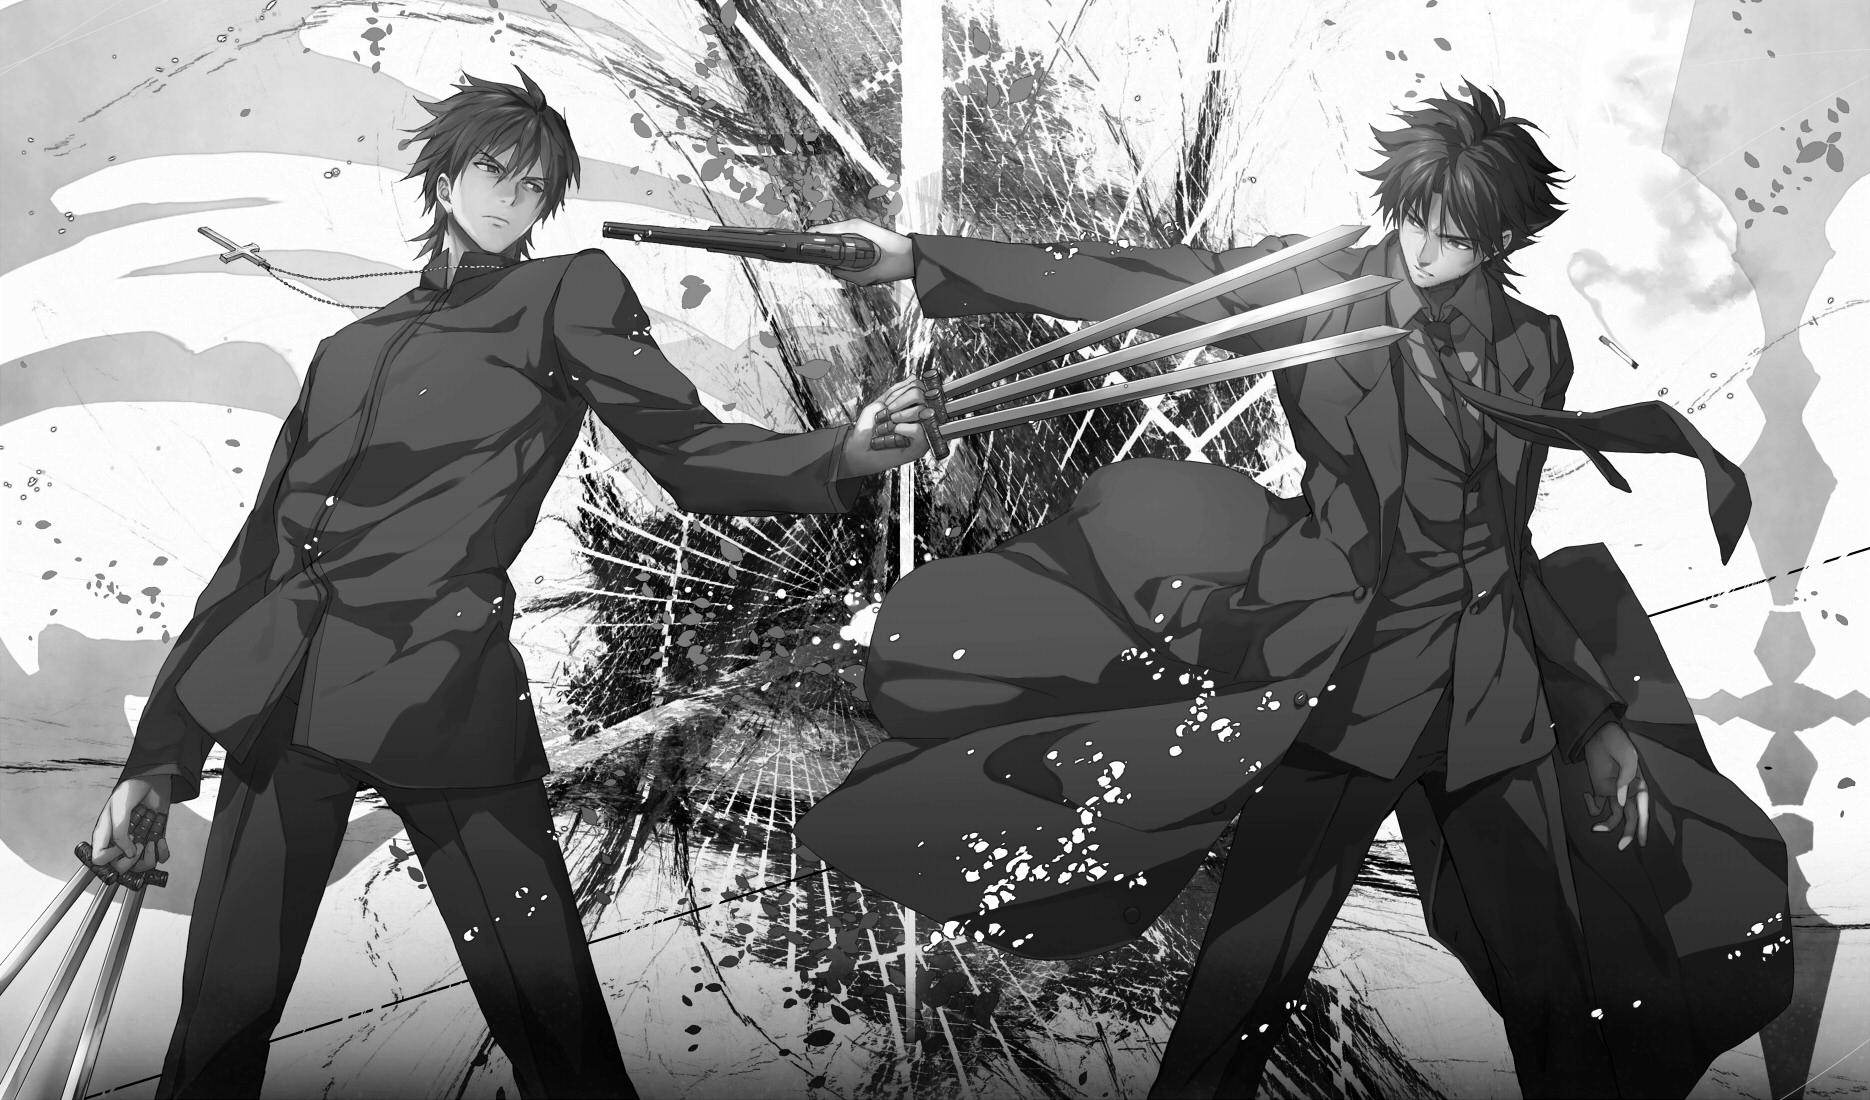
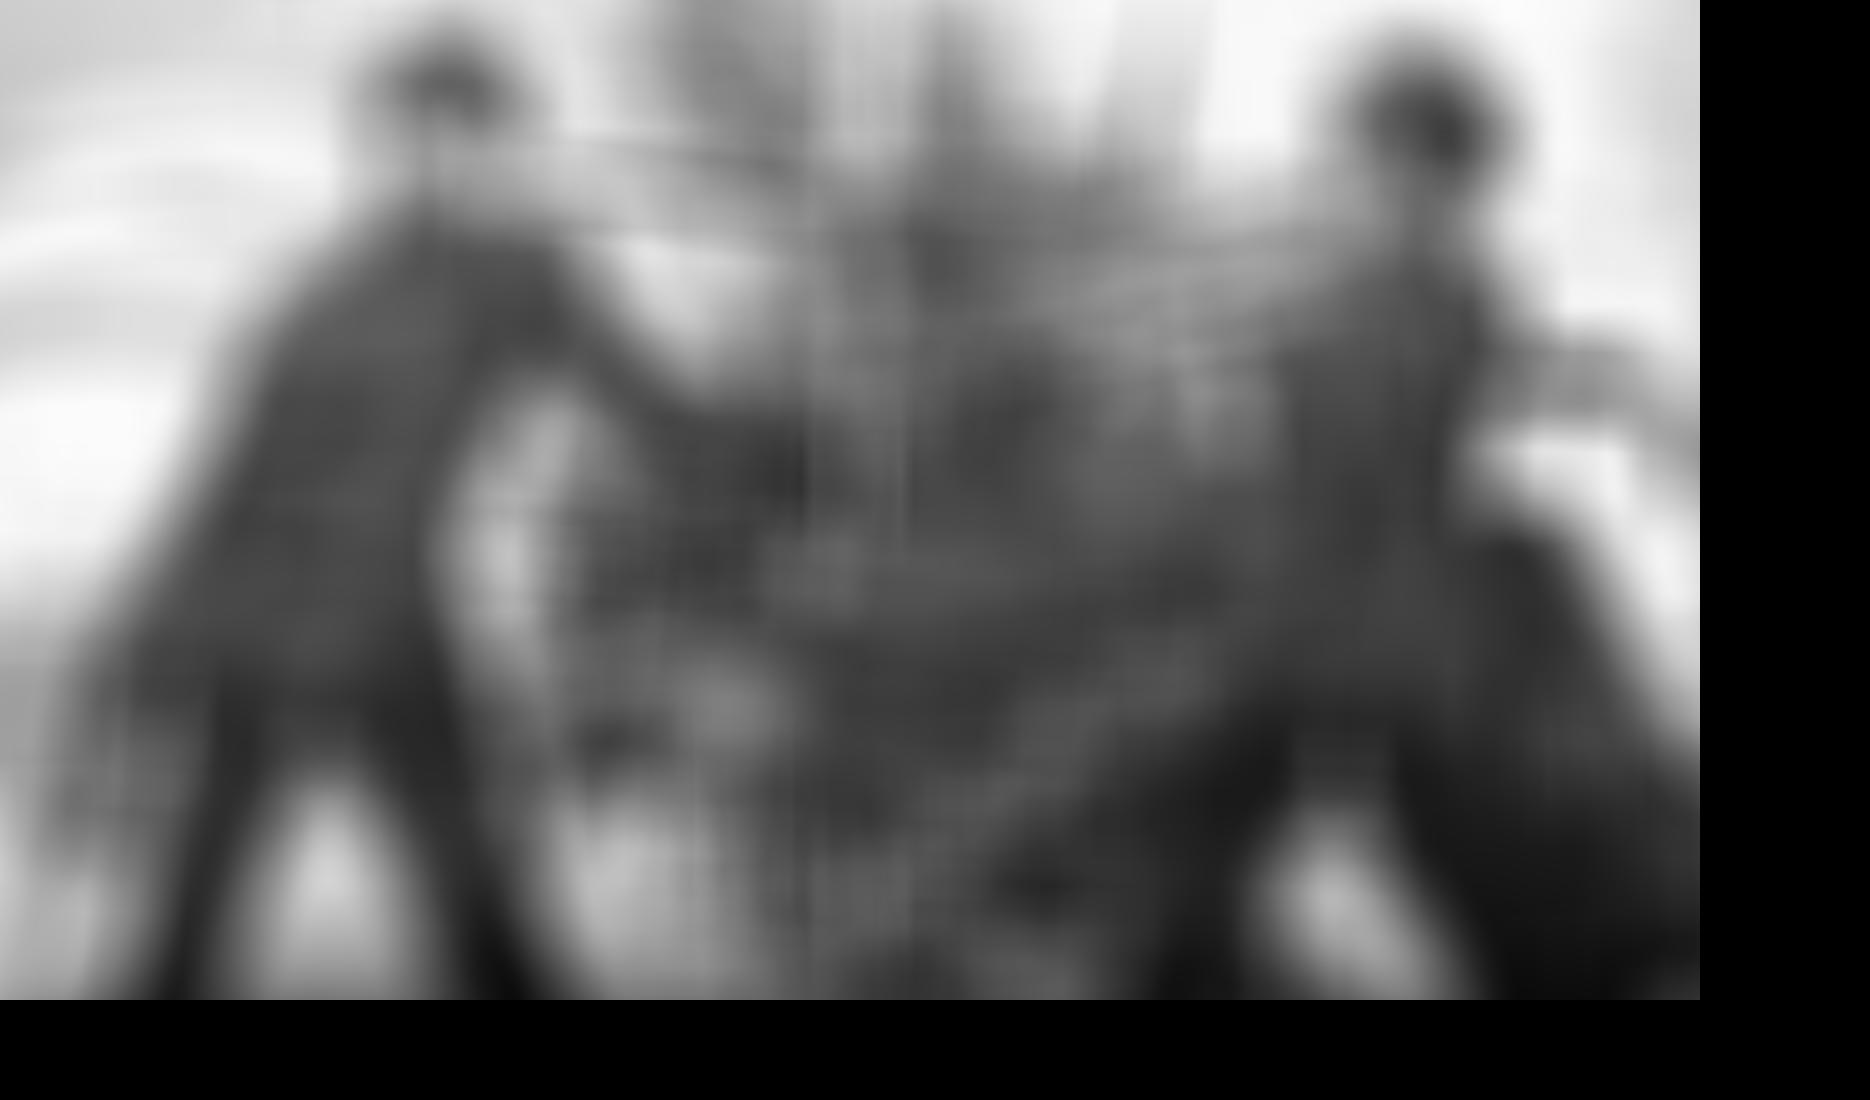
fix average block code and add jion's theoretical image into block breaker code

diff --git a/ImageProcessing.java b/ImageProcessing.java
@@ -3,7 +3,7 @@ import java.awt.image.BufferedImage;
 import java.io.*;
 import javax.imageio.ImageIO;
 import javax.swing.JFrame;
-public class ImageProcessing{
+public final class ImageProcessing{
 
     public static int[][] convertToGrayscale(String imagelocation) throws IOException{ // converts image at imagelocation to a 2d array of it's grayscale
 	File rawimage = new File(imagelocation);
@@ -27,14 +27,29 @@ public class ImageProcessing{
     public static int average(int[][] grayscale,int width, int height,int x,int y){// returns the average grayscale of a widthxheight at x,y
 	int ans = 0;
 	for(int i = 0;i<width;i++){
-	    for(int t = 0; i<height;t++){
+	    for(int t = 0; t<height;t++){
 		ans += grayscale[i+x][t+y];
 	    }
 	}
 	return ans/(width*height);
     }
 
-	
+	public static int[][] blackBreak(int[][] grayscale, int scale){
+		int yscale = scale*2;
+		int width = grayscale.length/scale;
+		int height = grayscale[0].length/yscale;
+		int[][] ans = new int[width][height];
+		for(int x = 0;x<width;x++){
+			for(int y=0;y<height;y++){
+				ans[x][y] = average(grayscale,scale,yscale,x*width,y*height);	
+			}
+		}
+		return ans;
+	}
+
+	//Test function thingies and potatoes below, enjoy
+
+
     public static void grayscaletoimage(String destination, int[][] input) throws IOException{
 	BufferedImage image = new BufferedImage(input.length,input[0].length,1);
 	for(int x = 0;x<input.length;x++){
@@ -50,9 +65,9 @@ public class ImageProcessing{
 
     public static void grayscaletoblurryimage(String destination, int[][] input) throws IOException{
 	BufferedImage image = new BufferedImage(input.length,input[0].length,1);
-	for(int x = 0;x<input.length - 10;x++){
-	    for(int y=0;y<input[x].length - 10;y++){
-		input[x][y] = average(input,1,1,x,y);
+	for(int x = 0;x<input.length - 170;x++){
+	    for(int y=0;y<input[x].length - 100;y++){
+		input[x][y] = average(input,100,100,x,y);
 		Color c  = new Color(input[x][y],input[x][y],input[x][y]);
 		image.setRGB(x,y,c.getRGB());
 	    }
